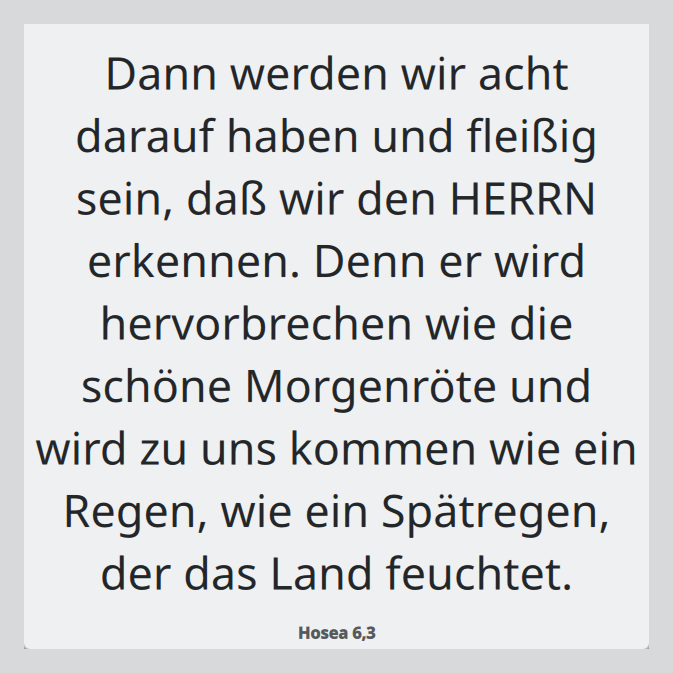
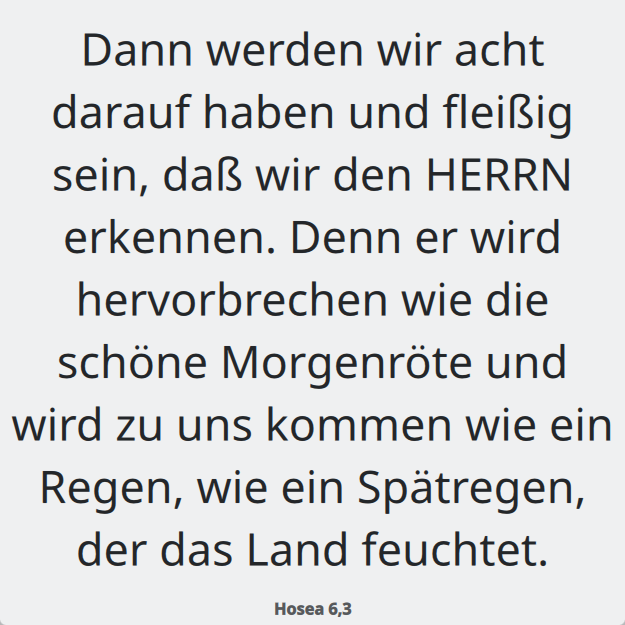
Match the README language switcher used across the other repos
First line, before the heading, current language bold and unlinked. The H1 is
the project name in both files, untranslated.

The screenshots lose the flat grey border that was padded around them; they
now show nothing but the widget itself.

Changed region(s): [[0.0, 0.5472, 1.0, 1.0], [0.0608, 0.0304, 0.912, 0.4256], [0.1216, 0.456, 0.8816, 0.5168]]

diff --git a/README.md b/README.md
@@ -1,6 +1,6 @@
-# Bible Verse Widget
+**English** · [Deutsch](README.de.md)
 
-*[Deutsche Version](README.de.md)*
+# Bible Verse Widget
 
 A Bible verse for every day, sitting directly on your desktop — no window to
 open, no account, no network.

diff --git a/README.de.md b/README.de.md
@@ -1,6 +1,6 @@
-# Bibelvers-Widget
+[English](README.md) · **Deutsch**
 
-*[English version](README.md)*
+# Bible Verse Widget
 
 Jeden Tag ein Bibelvers, direkt auf dem Schreibtisch — kein Fenster zum Öffnen,
 kein Konto, kein Internet.
